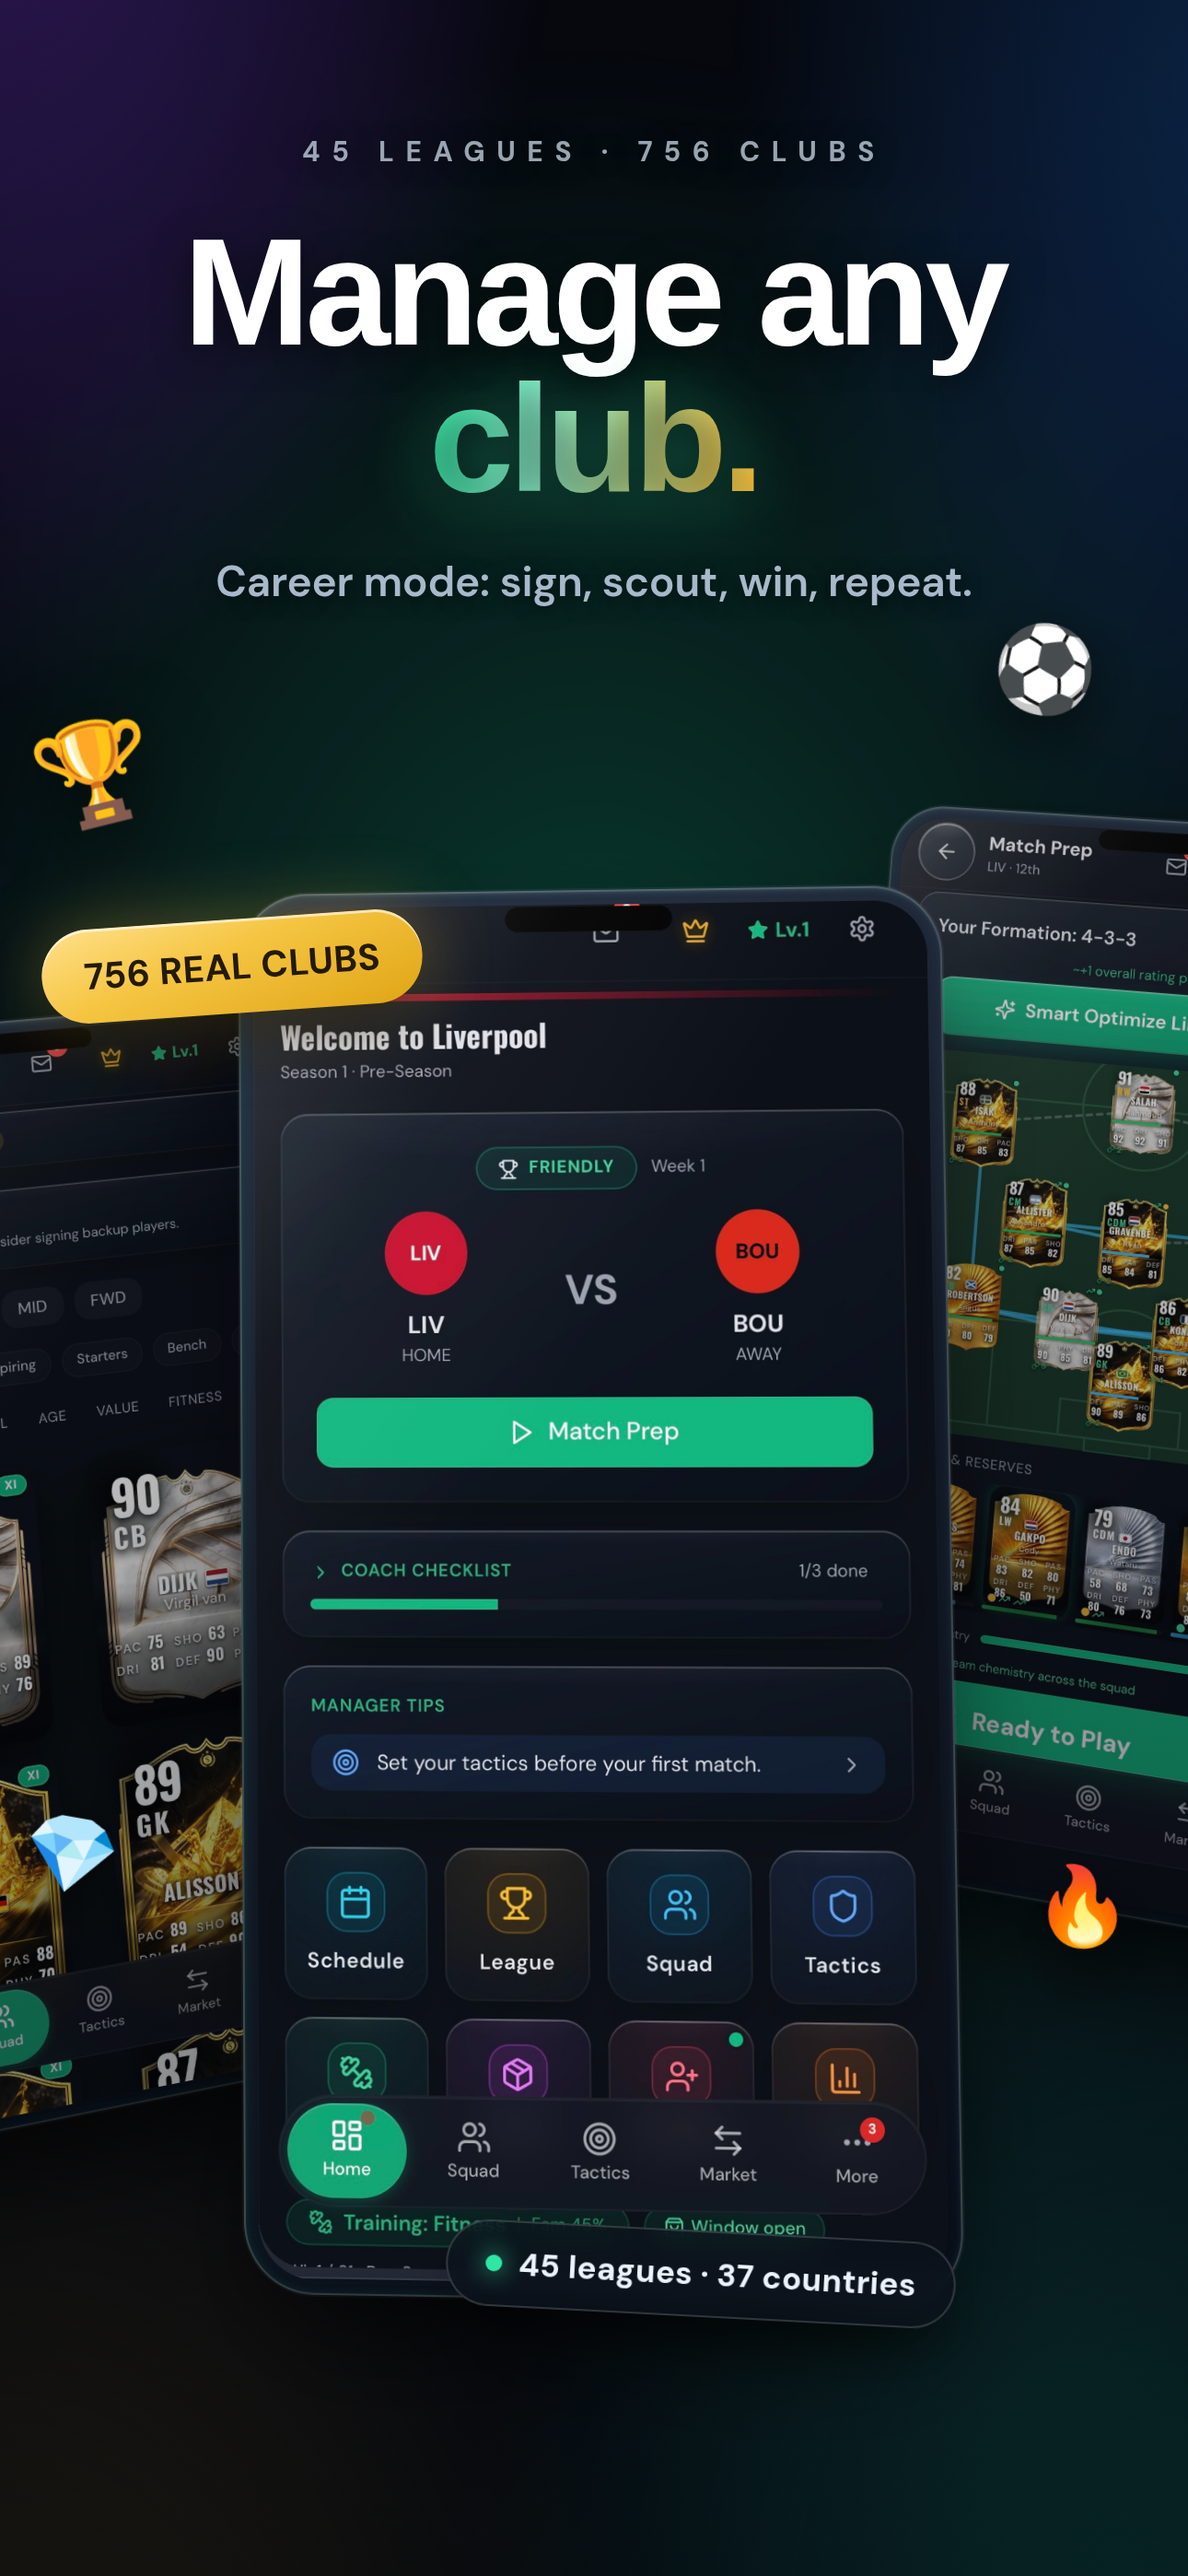
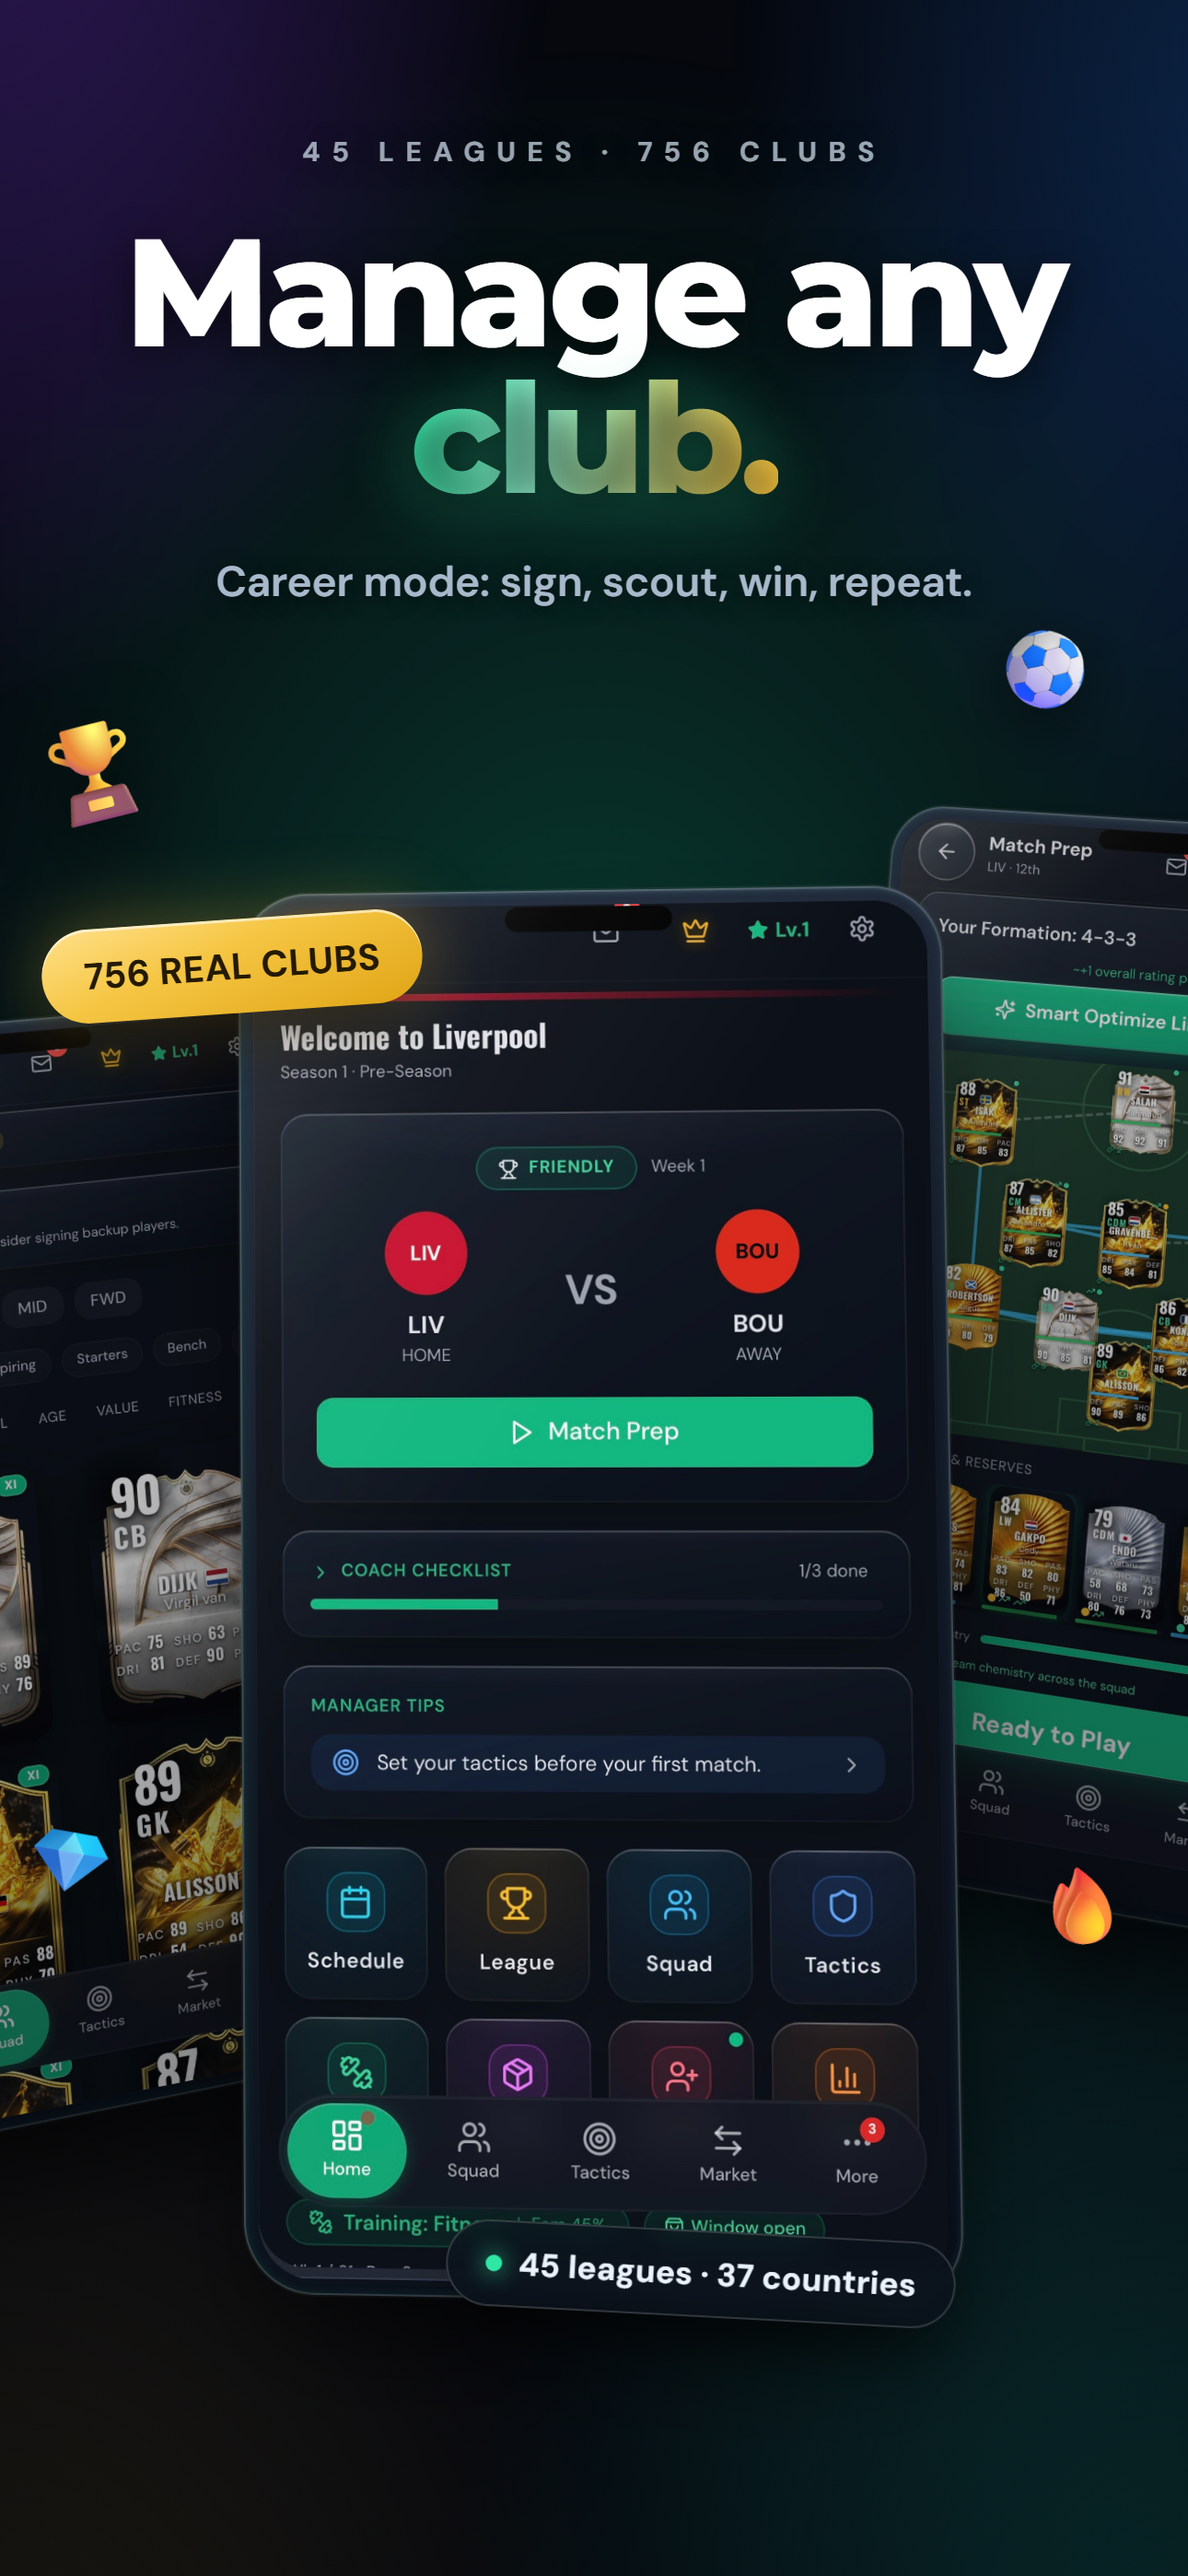
feat: RevenueCat-only analytics (transport removed, consent UI dropped); CI vitest forks fix; observability script Sentry-only; workflow cleanup

diff --git a/src/App.tsx b/src/App.tsx
@@ -6,19 +6,14 @@ import { MotionConfig } from "framer-motion";
 import { useGameStore } from "@/store/gameStore";
 import { ErrorBoundary } from "@/components/ErrorBoundary";
 import TitleScreen from "./pages/TitleScreen";
-// Both of these are Radix Dialogs that appear on a CONDITION — first launch for
-// the consent modal, a corrupt save for the recovery dialog — yet importing them
-// eagerly pulled @radix-ui/react-dialog into the boot graph for every launch.
-// Lazy + conditionally mounted, so the chunk is fetched only when one is
-// actually shown. There is no fallback on purpose: nothing should flash while a
-// dialog nobody asked for downloads.
-const AnalyticsConsentModal = lazy(() =>
-  import("@/components/AnalyticsConsentModal").then(m => ({ default: m.AnalyticsConsentModal })));
+// SaveRecoveryDialog is a Radix Dialog that appears on a CONDITION — a corrupt
+// save — yet importing it eagerly pulled @radix-ui/react-dialog into the boot
+// graph for every launch. Lazy + conditionally mounted, so the chunk is fetched
+// only when one is actually shown. There is no fallback on purpose: nothing
+// should flash while a dialog nobody asked for downloads.
 const SaveRecoveryDialog = lazy(() =>
   import("@/components/SaveRecoveryDialog").then(m => ({ default: m.SaveRecoveryDialog })));
 import NotFound from "./pages/NotFound";
-import { readAnalyticsConsent } from "@/store/helpers/persistence";
-import { refreshAnalyticsConsent } from "@/utils/analytics";
 
 // Lazy-loaded routes for code splitting
 const ClubSelection = lazy(() => import("./pages/ClubSelection"));
@@ -57,29 +52,16 @@ const App = () => {
     root.classList.toggle('perf-mode', !!performanceMode);
     return () => root.classList.remove('perf-mode');
   }, [performanceMode]);
-  // First-launch analytics consent: read once on mount, gate the rest of the
-  // app until the user answers. `refreshAnalyticsConsent` seeds the in-memory
-  // cache so early `track()` calls (e.g. from splash) see 'granted' only if
-  // the user already answered on a previous launch.
-  const [consent, setConsent] = useState(() => {
-    refreshAnalyticsConsent();
-    return readAnalyticsConsent();
-  });
-  useEffect(() => { refreshAnalyticsConsent(); }, []);
+  // Note: the first-launch analytics consent modal was removed — product
+  // analytics travel via RevenueCat + App Store Connect (decision in
+  // docs/growth-overhaul-plan.md §1.2), so no first-party stats leave the
+  // device and there is nothing to consent to.
 
   return (
   <ErrorBoundary scope="app">
     <MotionConfig reducedMotion={(reducedMotion || performanceMode) ? "always" : "user"}>
       <TooltipProvider>
         <Sonner />
-        {consent === 'unknown' && (
-          <Suspense fallback={null}>
-            <AnalyticsConsentModal
-              open
-              onChoice={() => setConsent(readAnalyticsConsent())}
-            />
-          </Suspense>
-        )}
         <HashRouter future={{ v7_startTransition: true, v7_relativeSplatPath: true }}>
           <Suspense fallback={null}><SaveRecoveryDialog /></Suspense>
           <Suspense fallback={<LoadingFallback />}>

diff --git a/src/utils/analytics.ts b/src/utils/analytics.ts
@@ -100,41 +100,24 @@ function mkSessionId(): string {
 }
 const SESSION_ID = mkSessionId();
 
-/** Sink abstraction. Default is a no-op; callers can override (useful for
- *  tests, or for wiring up a backend later without changing call sites). */
+/** Sink abstraction. Default is a LOCAL-ONLY log: product analytics travel
+ *  via RevenueCat + App Store Connect instead (decision recorded in
+ *  docs/growth-overhaul-plan.md §1.2), so nothing here ever touches the
+ *  network. Callers can override (tests, or re-wiring a backend later
+ *  without changing call sites). */
 export type AnalyticsSink = (payload: AnalyticsPayload) => void;
 
 let sink: AnalyticsSink = defaultSink;
 let cachedConsent: AnalyticsConsent | null = null;
 
 function defaultSink(payload: AnalyticsPayload): void {
-  // In dev, log so developers can see what would have been sent. In prod
-  // with no endpoint configured, stay silent — events leave the device only
-  // if an explicit endpoint is set AND the user granted consent.
+  // Dev builds log so developers can see what would have been collected.
+  // Production: silent by design — no endpoint exists, no event leaves the
+  // device. The consent-gated pipeline above stays intact so a future
+  // decision to ship an endpoint is a one-function change, not a rewrite.
   if (import.meta.env.DEV) {
     // eslint-disable-next-line no-console
     console.info('[analytics]', payload.event, payload.data);
-  }
-  const endpoint = import.meta.env.VITE_ANALYTICS_ENDPOINT;
-  if (!endpoint || typeof fetch === 'undefined') return;
-  // Best-effort; never throw, never await.
-  try {
-    const body = JSON.stringify(payload);
-    // Use sendBeacon when available (survives page unload) then fall back.
-    if (typeof navigator !== 'undefined' && typeof navigator.sendBeacon === 'function') {
-      const ok = navigator.sendBeacon(endpoint, body);
-      if (ok) return;
-    }
-    fetch(endpoint, {
-      method: 'POST',
-      headers: { 'Content-Type': 'application/json' },
-      body,
-      keepalive: true,
-    }).catch(() => {
-      /* swallow — analytics is best-effort, never retried */
-    });
-  } catch {
-    /* sink errors must never surface to the app */
   }
 }
 

diff --git a/src/pages/SettingsPage.tsx b/src/pages/SettingsPage.tsx
@@ -224,9 +224,8 @@ const SettingsBodyInner = ({ variant }: { variant: SettingsVariant }) => {
   // and Send button stay visible above the on-screen keyboard.
   const keyboardInset = useKeyboardInset();
   const feedbackTextareaRef = useRef<HTMLTextAreaElement>(null);
-  // Analytics consent — device-level pref, lives outside the save. Seed from
-  // localStorage; toggling writes back immediately.
-  const [analyticsGranted, setAnalyticsGranted] = useState(() => readAnalyticsConsent() === 'granted');
+  // (Analytics consent toggle removed — no first-party stats leave the device;
+  // see docs/growth-overhaul-plan.md §1.2.)
   const userIsPro = isPro(monetization);
   const hasActiveSub = isSubscriptionActive(monetization);
 
@@ -887,22 +886,6 @@ const SettingsBodyInner = ({ variant }: { variant: SettingsVariant }) => {
             </span>
           </LiquidButton>
         </div>
-      </SettingsSection>
-
-      {/* ─── Privacy ─── */}
-      <SettingsSection title={t('settings.privacy')}>
-        <ToggleRow
-          icon={ChartBar}
-          label={t('settingsPage.shareAnonymousUsageStats')}
-          description={t('settingsPage.helpImproveTheGameWe')}
-          value={analyticsGranted}
-          onChange={() => {
-            const next = !analyticsGranted;
-            setAnalyticsGranted(next);
-            writeAnalyticsConsent(next ? 'granted' : 'denied');
-            refreshAnalyticsConsent();
-          }}
-        />
       </SettingsSection>
 
       {/* ─── Data Management (destructive) ─── */}

diff --git a/vitest.config.ts b/vitest.config.ts
@@ -1,6 +1,7 @@
 import { defineConfig, configDefaults } from "vitest/config";
 import react from "@vitejs/plugin-react-swc";
 import path from "path";
+import os from "os";
 import { createRequire } from "module";
 
 const pkgVersion = createRequire(import.meta.url)("./package.json").version;
@@ -83,7 +84,16 @@ export default defineConfig({
     // generated national + club-template data in `setup.ts`, so memory is the
     // binding constraint, not CPU. Raise only alongside a memory measurement —
     // and re-check the stress-suite timeouts, which scale with contention.
-    maxForks: 4,
+    //
+    // CI keeps ONE core free for the main process. The full suite has twice
+    // exited 1 with every test passing because four forks starved the main
+    // thread's RPC channel while a season simulation ran — the worker's
+    // `onTaskUpdate` call times out and Vitest counts it as an unhandled
+    // error (see the reporter note below). The `dot` reporter reduced that
+    // traffic but did not eliminate it; on shared CI runners the starvation
+    // still happened. Reserving a core for the main process removes the
+    // contention at its source instead of tuning for it downstream.
+    maxForks: process.env.CI ? Math.max(1, os.cpus().length - 1) : 4,
     // Low-chatter reporter by default.
     //
     // WHY. The full suite twice exited 1 with *every* test passing — 2422
